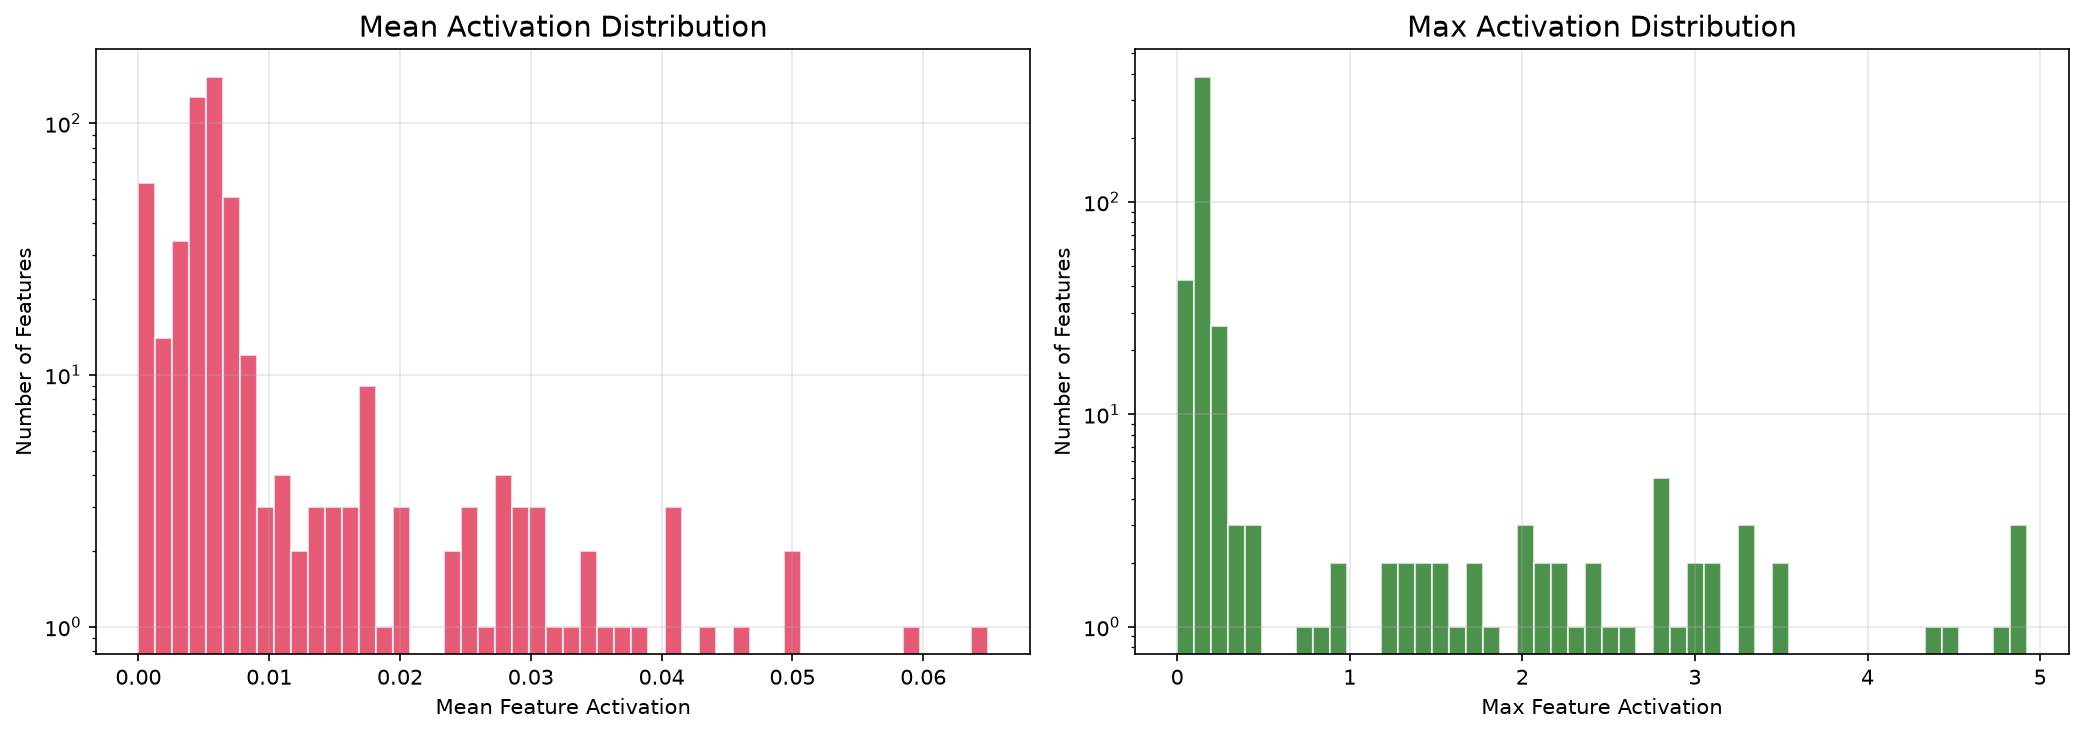
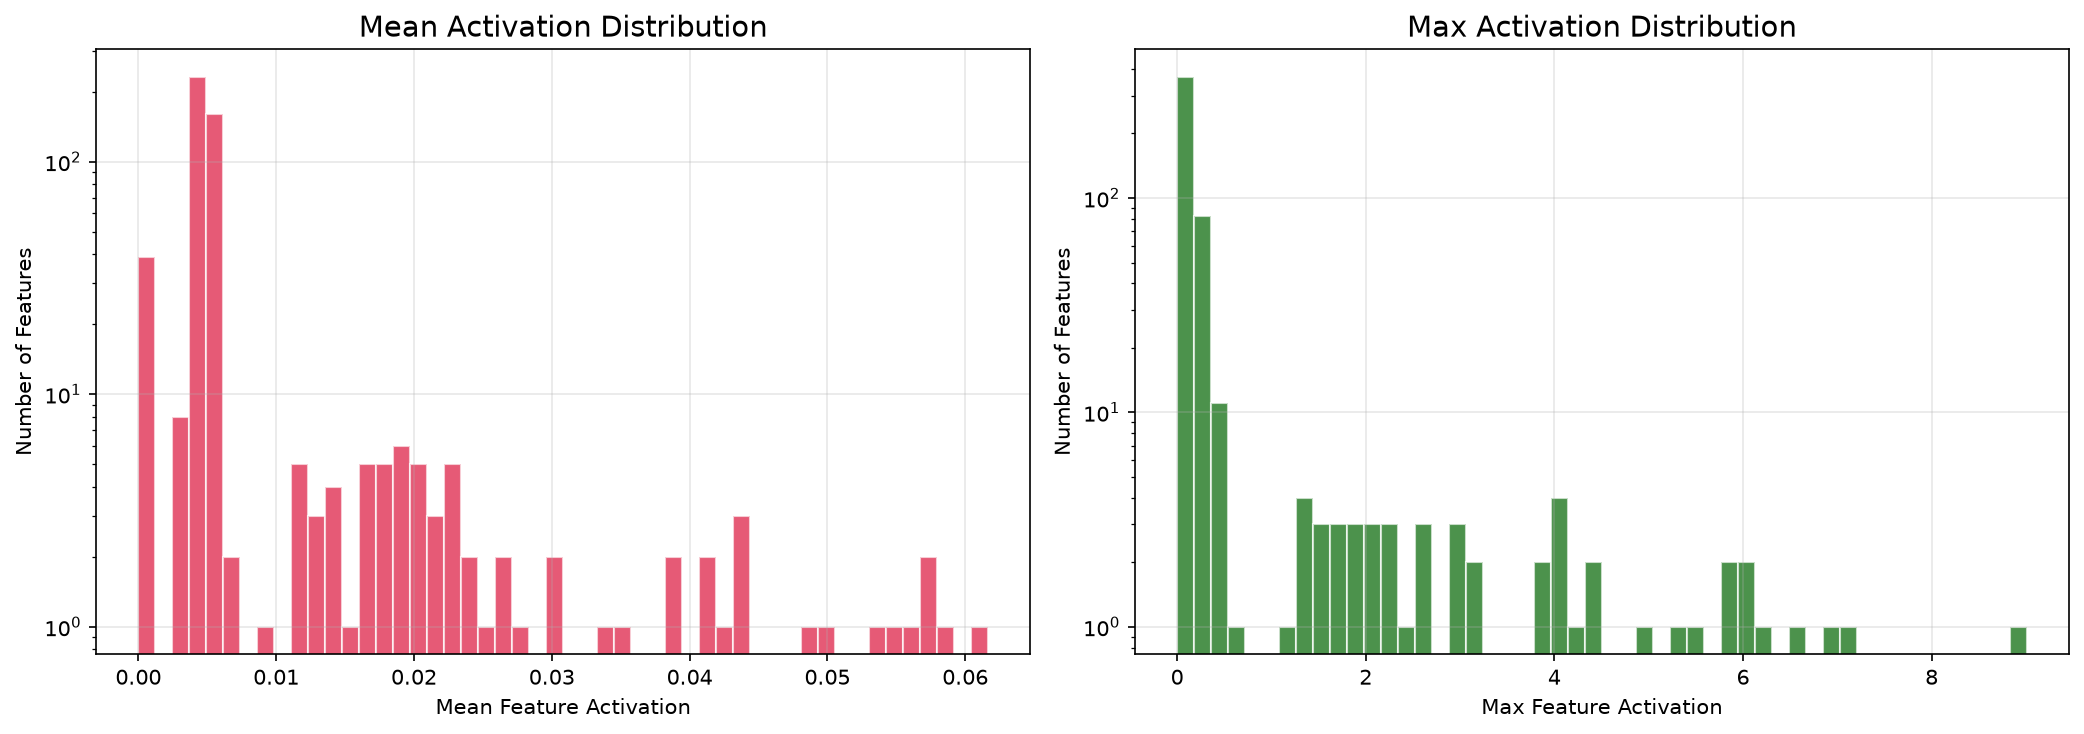
docs(research): the CPU de-risk, and the Rung 5 figures at last
Two things that were pending, closed.

**The pre-registration's CPU gate** (run before the GPU run and recorded in
the pre-registration *before* the run, so nothing about it can be read as a
post-hoc adjustment):

- the quick geometry learns, and it learns by content: copy accuracy 0.5288
  on the copy queries against a 0.2051 ceiling for the best fixed offset, and
  0.4521 on the queries whose distance is not the modal one (where a
  positional head scores ~0);
- the detector does not fire at that scale: the best head's content mass is
  0.146 against a 0.30 screen, the K-composition 0.183 against a 0.40 bar,
  0 of 8 heads confirmed. The likely reading is a copy distributed over the
  heads rather than concentrated in one. The thresholds are NOT changed: the
  pre-registration says the run can end in PARTIAL or in NEGATIVE
  (unexplained) when the behaviour and the screen disagree, and that is now
  written down before the data exists;
- a second probe on the standard geometry (vocab 2048, 400 CPU epochs) is
  still at the uniform prediction: the standard task has not started
  learning at that budget, and the pre-registered GPU run is ~7.5x the
  optimizer steps and 4x the data per epoch.

**The Rung 5 figures**: the real-activation pair is regenerated from the
very checkpoint the tracked manifest names, with the manifest's own
configuration, and reproduces it (L0 15.12/512, 400/512 dead, FVE 0.99998);
the synthetic pair is regenerated from the 2026-08-13 manifest's
[…]

diff --git a/07_capstone/notes/variable-distance-induction-preregistration.md b/07_capstone/notes/variable-distance-induction-preregistration.md
@@ -147,6 +147,75 @@ spent looking for it.
 - A negative here does not retract the periodic result; it closes the
   question the periodic task could not answer.
 
+## Addendum — 2026-10-22: the CPU de-risk, and what it says about the thresholds
+
+The CPU gate above was run before the GPU run, and its result is recorded
+here **before** the GPU run happens, so that nothing about it can be read as
+a post-hoc adjustment.
+
+**The gate passes.** (1) The content oracle solves 100% of the copy queries
+and the fixed-offset oracle 20.5% (`tests/test_induction_tasks.py`).
+(2) The planted detector tests pass: a planted content head is detected, a
+planted fixed-offset head and a planted previous-token head are not
+(`tests/test_planted_variable_task.py`). (3) The end-to-end run completes and
+writes a manifest with the new fields.
+
+**The de-risk run** (CPU, the *quick* geometry: seq_len 24, key 15, two
+blocks of three, vocab 256, d_model 64, 1500 epochs, fresh batches, one
+seed):
+
+| Measurement | Value | Chance / baseline |
+|---|---|---|
+| Overall validation accuracy | 0.1065 | 0.0039 (1/256) |
+| **Copy accuracy** (on the copy queries) | **0.5288** | 0.2051 (best fixed offset) |
+| **Copy accuracy, non-modal distance group** | **0.4521** | ~0 for a fixed-offset head |
+| Content mass (per head, best) | 0.146 | screen 0.30 |
+| K-composition | 0.183 | confirmation 0.40 |
+| Confirmed heads | 0 / 8 | |
+
+**What it says.** The task *is* learnable, and the copy is not a fixed
+offset: the model reaches 0.53 on the copy queries against a 0.21 ceiling
+for the best fixed offset, and 0.45 on the queries whose distance is *not*
+the most frequent one — the group where a positional head scores ~0. The
+behaviour is content-based.
+
+**What it also says, and this is the part that matters for the GPU run.**
+The *detector* does not fire: the best head's content mass is 0.146, below
+the 0.30 screen, and the K-composition is 0.183, below the 0.40
+confirmation bar. The most likely reading is that at this scale the copy is
+**distributed over the heads** rather than concentrated in one: eight heads
+at ~0.15 each can carry the copy while no single head crosses a per-head
+threshold. That is the same drift the periodic task showed (the period mass
+fell 0.909 → 0.695 with budget while the content mass stayed at 0.031).
+
+**The thresholds are not changed.** The criteria above are frozen, and
+0.30 is the per-head convention this repository has used since 2026-08-01
+(a convention, not a derived boundary — see [[portfolio/RESULTS]]). The
+consequence is stated plainly: **the GPU run can end in PARTIAL or in
+"NEGATIVE (unexplained)" even if the model copies by content**, because the
+behavioural criteria and the detector's screen can disagree. If they do, the
+verdict says so, the word "induction head" is not used, and the
+distribution over heads is the first thing to measure. That is a result
+about the detector's granularity, and it is reported as one — not repaired
+by lowering a bar that was written down before the data existed.
+
+**A second probe, the same day, on the standard geometry** (CPU, seq_len 64,
+key 36, four blocks of five, vocab 2048, d_model 64, 400 epochs, 2048
+sequences per epoch, fresh batches, one seed): the model is still at the
+uniform prediction at the end of the budget — train loss 7.6246 against
+ln(2048) = 7.62, copy accuracy 0.0004 against a chance of 0.0005, content
+mass 0.022, no confirmed head. The standard geometry is *not* yet learning at
+400 CPU epochs, while the quick geometry (vocab 256, four copy queries per
+sequence instead of twenty) had reached a copy accuracy of 0.53 by epoch
+1500.
+
+Two readings, and the record does not pick one yet: the standard task may
+simply need its full budget (the pre-registered run is ~7.5× the optimizer
+steps and 4× the data per epoch, on a GPU), or the larger vocabulary may
+make the early phase much slower to leave. What this does *not* change is
+the protocol: the GPU run is the pre-registered one, at its budget, with the
+criteria above, and a negative there is a negative at that budget.
+
 ## Links
 
 - [[portfolio/RESULTS]] — the authority on what is true; the Rung 1 section
@@ -157,6 +226,7 @@ spent looking for it.
   the fixed-offset oracle are the two controls.
 - [[docs/adr/0032-induction-detector-and-the-positional-shortcut]] — the
   audit that found the detector bug and the shortcut.
+- [[docs/adr/0033-content-based-induction-task]] — the design decision.
 - [[07_capstone/research-plan]] — the ladder this rung belongs to.
 - [[04_nlp_and_transformers/notes/induction-heads]] — the mechanism's
   background.

diff --git a/00_meta/03_progress-log.md b/00_meta/03_progress-log.md
@@ -13,6 +13,42 @@ Dated journal. One line per session: *what* I studied, *what* I built, *what* I 
 - Open question:
 -->
 
+## 2026-10-22 — The CPU de-risk, the detector's granularity, and the Rung 5 figures
+
+- **Studied**: whether the content-based task is *learnable* before spending a GPU
+  session on it, and what the pre-registered thresholds would do with the answer.
+- **Built / measured** (the pre-registration's CPU gate, run before the GPU run and
+  recorded in the pre-registration *before* the run, so that nothing about it can be
+  read as a post-hoc adjustment):
+  - **The quick geometry learns, and it learns by content.** Copy accuracy **0.5288**
+    on the copy queries against a **0.2051** ceiling for the best fixed offset, and
+    **0.4521** on the queries whose distance is *not* the modal one — the group where
+    a positional head scores ~0. The mechanism works.
+  - **The detector does not fire at that scale**: the best head's content mass is
+    **0.146** (screen 0.30) and the K-composition **0.183** (bar 0.40), 0 heads
+    confirmed of 8. The likely reading is a *distributed* copy — several heads at
+    ~0.15 each, none crossing a per-head threshold. The thresholds were **not**
+    changed: 0.30 is the convention this repository has used since 2026-08-01, and
+    the pre-registration says the run can end in PARTIAL or "NEGATIVE (unexplained)"
+    when the behaviour and the screen disagree. It is written down, in advance.
+  - **A second probe, on the standard geometry** (vocab 2048, 400 CPU epochs): the
+    model is still at the uniform prediction (train loss 7.6246 against ln 2048 =
+    7.62, copy accuracy 0.0004 against a chance of 0.0005). The standard task is
+    not yet learning at that budget; the pre-registered run is ~7.5× the optimizer
+    steps and 4× the data per epoch, on a GPU.
+- **Closed the Rung 5 figure item**: the real-activation figures are regenerated
+  from the very checkpoint the tracked manifest names, with the manifest's own
+  configuration — and the re-run reproduces the manifest's numbers (L0 15.12/512,
+  400/512 dead, FVE 0.99998). The synthetic figures are regenerated from the
+  2026-08-13 manifest's configuration (FVE 0.9749, 39/512 dead). A figure that
+  cannot be regenerated from the evidence is a claim.
+- **Bug found by the CI, fixed**: the Pages workflow's `make reproduce-quick`
+  failed on `main` after the v1.1 increment — my `run_activation_patching` took the
+  answer's position as `pos` and the patch loop used a variable with the same
+  name, so the metric was read at the *last patched* position. On the quick config
+  that crashed; on the standard config it would have measured the wrong position
+  and looked right. Two tests now pin the semantics, and both fail against the bug.
+
 ## 2026-10-20 — The content-based task, and an audit that reads the prose
 
 - **Studied**: the *task* behind Rung 1. The 2026-10-19 audit left one question

diff --git a/portfolio/RESULTS.md b/portfolio/RESULTS.md
@@ -863,13 +863,16 @@ missing mechanism.
 **Reference**: Bricken et al., "Towards Monosemanticity" (2023); Cunningham et al., "Sparse Autoencoders Find Highly Interpretable Features in Language Models," ICLR 2024.
 
 **Figures**: `portfolio/figures/exp5_sparsity_tradeoff.png`,
-`portfolio/figures/exp5_feature_histogram.png` (synthetic). Real-activation figures
-(`exp5_sparsity_tradeoff_real.png`, `exp5_feature_histogram_real.png`) are not yet
-generated — the 2026-10-20 real-activation run was a manifest-producing run
-(`results/exp5_real_activations.json`, CPU, 52 min) and the figures remain a recorded
-Rung-5 pending item. The synthetic figures pre-date the 2026-08-13 manifest (they are the
-original seed-42 plots); regenerating them from the manifest-backed run is part of the
-recorded Rung-5 pending item.
+`portfolio/figures/exp5_feature_histogram.png` (synthetic),
+`portfolio/figures/exp5_sparsity_tradeoff_real.png`,
+`portfolio/figures/exp5_feature_histogram_real.png` (real activations).
+
+The real-activation figures were a recorded pending item until 2026-10-22:
+they are regenerated from **the same checkpoint the tracked manifest names**
+(the GPU run's `exp1_checkpoint_seed0.pt`, epoch 3000) with the manifest's
+own configuration, and the re-run reproduces the manifest's numbers exactly
+(L0 15.12/512, 400/512 dead, 78.1%). A figure that cannot be regenerated
+from the evidence is a claim, not a figure.
 
 ---
 
